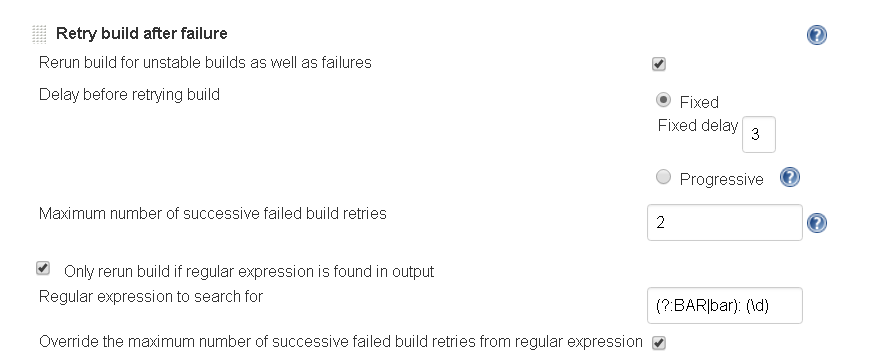
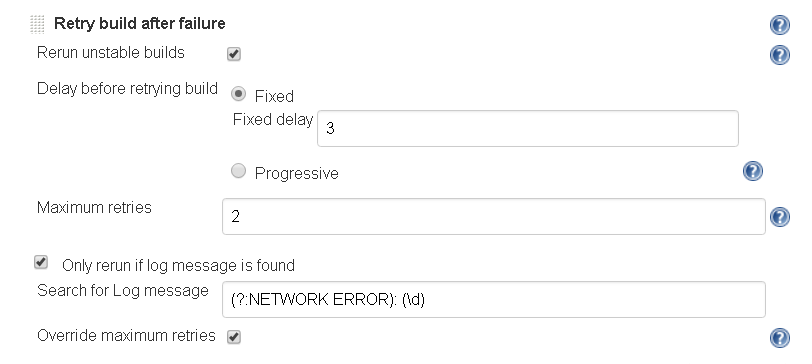
intermediate revision - updated help for the Publisher configuration screens

diff --git a/naginator-plugin/src/main/resources/com/chikli/hudson/plugin/naginator/NaginatorPublisher/help-maxScheduleOverrideAllowed.html b/naginator-plugin/src/main/resources/com/chikli/hudson/plugin/naginator/NaginatorPublisher/help-maxScheduleOverrideAllowed.html
@@ -1,0 +1,17 @@
+<div>
+Allow Log parser to extract the maximum number of successive failed build retries from the failure log message. 
+Clear to enforce the configuration value to be always used.
+The Regular expression to search for will need to have a integer number in its first match group e.g.
+<br/>
+<pre>ERROR: (?:NETWORK ERROR|ARTIFACTORY ERROR) RETRY: (\d)</pre>
+<br/>
+and the log message 
+<pre>
+ERROR: NETWORK ERROR RETRY: 2
+</pre>
+and
+<pre>
+ERROR: ARTIFACTORY ERROR RETRY: 1
+</pre>
+in the build console output would trigger <b>2</b> and <b>1</b> maximum reruns.
+</div>

diff --git a/naginator-plugin/src/main/resources/com/chikli/hudson/plugin/naginator/NaginatorPublisher/help-maxSchedule.html b/naginator-plugin/src/main/resources/com/chikli/hudson/plugin/naginator/NaginatorPublisher/help-maxSchedule.html
@@ -1,3 +1,3 @@
 <div>
-    Limits successive failed build retries. Set to 0 for no limit.
+Limits successive failed build retries. Set to 0 for no limit.
 </div>

diff --git a/naginator-plugin/src/main/resources/com/chikli/hudson/plugin/naginator/NaginatorPublisher/help-rerunIfUnstable.html b/naginator-plugin/src/main/resources/com/chikli/hudson/plugin/naginator/NaginatorPublisher/help-rerunIfUnstable.html
@@ -1,0 +1,3 @@
+<div>
+Rerun build for unstable builds as well as failures
+</div>

diff --git a/naginator-plugin/src/main/java/com/chikli/hudson/plugin/naginator/NaginatorPublisherScheduleAction.java b/naginator-plugin/src/main/java/com/chikli/hudson/plugin/naginator/NaginatorPublisherScheduleAction.java
@@ -292,13 +292,12 @@ public class NaginatorPublisherScheduleAction extends NaginatorScheduleAction {
 				matcher = pattern.matcher(new InterruptibleCharSequence(line));
 				if (matcher.find()) {
 
-					// TODO: safety with override maxScheduleOverride
-					int maxScheduleOverride = 0;
-					maxScheduleOverride = Integer.parseInt(matcher.group(1));
-					assertThat(maxScheduleOverride, greaterThan(0));
-					LOGGER.log(Level.FINEST,
-							"Got maxScheduleOverride = " + maxScheduleOverride);
 					if (naginatorPublisher.isMaxScheduleOverrideAllowed()) {
+						int maxScheduleOverride = 0;
+						maxScheduleOverride = Integer.parseInt(matcher.group(1));
+						assertThat(maxScheduleOverride, greaterThan(0));
+						LOGGER.log(Level.FINEST,
+								"Extracted maxScheduleOverride = " + maxScheduleOverride);
 						naginatorPublisher.setMaxScheduleOverride(maxScheduleOverride);
 					}
 					return true;

diff --git a/naginator-plugin/README.md b/naginator-plugin/README.md
@@ -113,6 +113,12 @@ if (naginatorPublisher.isMaxScheduleOverrideAllowed()) {
 ```
 This allows for a more granular control of the rebuild policies from the build side.
 
+### Run application
+
+Ruild and install the package into the  Jenkins instance
+```cmd
+mvn clean compile hpi:hpi
+```
 ### License
 This project is licensed under the terms of the MIT license.
 
